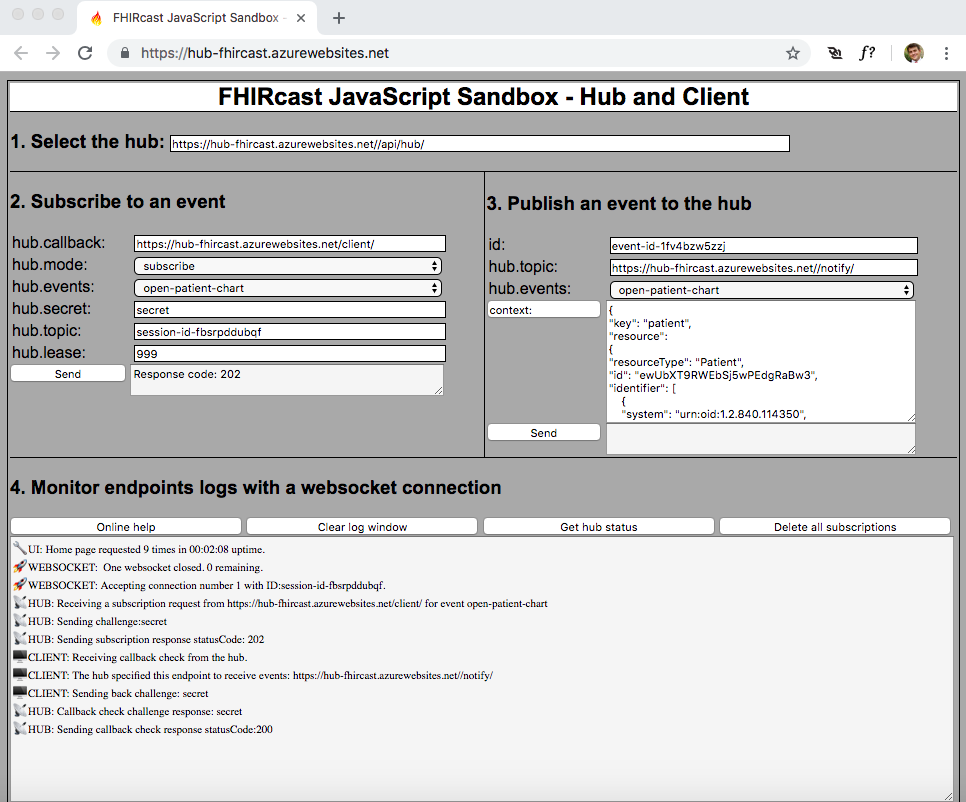
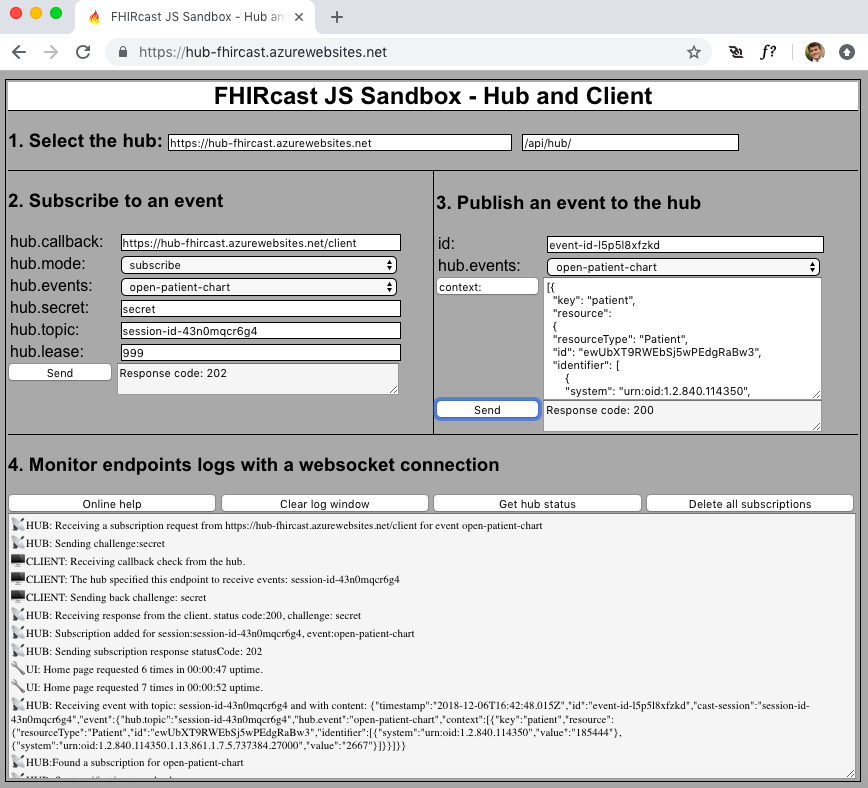
.NETSYNC

Changed region(s): [[0.0, 0.0, 0.9954, 1.0], [0.3422, 0.0, 0.3733, 0.0305]]

diff --git a/sandbox.html b/sandbox.html
@@ -10,6 +10,7 @@
         div.publish {padding: 2px; border-top: 1px solid black;border-left: 1px solid black;margin-left: 50%}
         label,button {padding: 2px; display: inline-block;width: 24.5%}
         input,textarea,select {width: 65%;border:1px solid}
+        input.selectHub {float: left; }
         textarea {vertical-align: top;}
         textarea.textAreaMonitor {width: 99%;font-family: "Segoe UI Emoji";}
         textarea.textAreaMonitor,textarea.subscriptionResponse,textarea.eventResponse {background-color:whitesmoke}
@@ -24,14 +25,13 @@
 
 <div class="selectHub" id="selectHub">
     <h3>1. Select the hub:
-    <input id="hubURL" name="hubURL" value="http://localhost:3000">
+        <input id="hubURL" name="hubURL"  style="width: 40%;" value="http://localhost:3000">&nbsp;
+        <input id="hubEndpoint" name="hubEndpoint"  style="width: 25%;" value="/api/hub/">
     </h3>
-</div>
+ </div>
 
 <div class="subscribe" id="subscribe">
     <h3>2. Subscribe to an event</h3>
-    <label>hub subscription endpoint: </label>
-    <input id="hubSubscribeURI" name="hubSubscribeURI" value="http://localhost:3000/api/hub/">
     <label>hub.callback: </label>
     <input id="clientEndpoint" name="hub.callback"   size="29" value="http://localhost:3000/client"/>    
     <label>hub.mode:</label>
@@ -56,7 +56,7 @@
     <input id="hub.topic" name="hub.topic" type="text" value="FHIRcast testing">
     <label>hub.lease: </label> 
     <input id="hub.lease" name="hub.lease" type="text" value="999">
-    <button onclick="sendSubscription(document.getElementById('hubSubscribeURI').value)">Send</button>
+    <button onclick="sendSubscription(document.getElementById('hubURL').value + document.getElementById('hubEndpoint').value)">Send</button>
     <textarea class="subscriptionResponse" id="subscriptionResponse"></textarea>
 </div>
 
@@ -75,9 +75,9 @@
         <option value="logout-user">logout-user</option>
         <option value="hibernate-user">hibernate-user</option>
     </select>
-    <button onclick="getContext(document.getElementById('hubSubscribeURI').value,document.getElementById('hub.topic').value)" style="text-align:left;" >context:</button>
+    <button onclick="getContext(document.getElementById('hubURL').value + document.getElementById('hubEndpoint').value,document.getElementById('hub.topic').value)" style="text-align:left;" >context:</button>
     <textarea  id="context" rows="9" cols="35">{}</textarea>
-    <button onclick="sendEvent(document.getElementById('context').value,document.getElementById('hubSubscribeURI').value+document.getElementById('hub.topic').value)">Send</button>
+    <button onclick="sendEvent(document.getElementById('context').value,document.getElementById('hubURL').value + document.getElementById('hubEndpoint').value+document.getElementById('hub.topic').value)">Send</button>
     <textarea class="eventResponse" id="eventResponse"></textarea>
 </div>
 
@@ -163,7 +163,8 @@
     
     function deleteSubscriptions(){
         var xhr=new XMLHttpRequest();
-        xhr.open('POST',parser.protocol+'//' + parser.host + '/delete');
+     //   xhr.open('POST',parser.protocol+'//' + parser.host + '/delete');
+     xhr.open('DELETE',parser.protocol+'//' + parser.host + '/');
         xhr.send();
         return;
     }
@@ -185,8 +186,8 @@
         titleSpan.textContent = env.title;
         document.body.style.backgroundColor = env.backgroundColor;
         document.getElementById('hubURL').value = env.hubURL;
+        document.getElementById('hubEndpoint').value = env.hubEndpoint;
         document.getElementById('clientEndpoint').value=env.clientURL;
-        document.getElementById('hubSubscribeURI').value = env.hubURL+env.hubSubscribe;
         document.getElementById('context').value=env.defaultContext; 
         document.getElementById('sendWebMessage').value="Goedemiddag from the " + env.title;
     };

diff --git a/websocket.html b/websocket.html
@@ -22,7 +22,8 @@
 <header><h2>websocket <span id="docTitle"></span></h2></header>
 <div class="selectHub" id="selectHub">
     <h3>1. Select the hub:
-    <input id="hubSubscribeURI" name="hubSubscribeURI" value="http://localhost:3000/api/hub/">
+        <input id="hubURL" name="hubURL"  style="width: 40%;" value="http://localhost:3000">&nbsp;
+        <input id="hubEndpoint" name="hubEndpoint"  style="width: 25%;" value="/api/hub/">
     </h3>
 </div>
 <div class="subscribe" id="subscribe">
@@ -56,7 +57,7 @@
     <label>hub.channel.endpoint: </label> 
     <input id="hub.channel.endpoint" name="hub.channel.endpoint" type="text" value="ec3d063d545447de946614697cd20d62">
     
-    <button onclick="sendSubscription(document.getElementById('hubSubscribeURI').value)">Send</button>
+    <button onclick="sendSubscription(document.getElementById('hubURL').value + document.getElementById('hubEndpoint').value)">Send</button>
     <textarea class="subscriptionResponse" id="subscriptionResponse"></textarea>
 </div>
 
@@ -64,8 +65,6 @@
     <h3>3. Publish an event to the hub</h3> 
     <label>id:</label> 
     <input id="eventId" name="eventId" type="text" value="">
-    <label >hub.topic:</label>
-    <input id="publishURI" name="publishURI" value="http://localhost:3000/notify"/>
     <label>hub.events:</label>
     <select id="publishEvents" name="publishEvents">
         <option value="open-patient-chart" selected >open-patient-chart</option>
@@ -77,9 +76,9 @@
         <option value="logout-user">logout-user</option>
         <option value="hibernate-user">hibernate-user</option>
     </select>
-    <button onclick="getContext(document.getElementById('publishURI').value,document.getElementById('hub.topic').value)" style="text-align:left;" >context:</button>
+    <button onclick="getContext(document.getElementById('hubURL').value + document.getElementById('hubEndpoint').value,document.getElementById('hub.topic').value)" style="text-align:left;" >context:</button>
     <textarea  id="context" rows="9" cols="35">{}</textarea>
-    <button onclick="publishEvent(document.getElementById('context').value,document.getElementById('publishURI').value)">Send</button>
+    <button onclick="publishEvent(document.getElementById('context').value,document.getElementById('hubURL').value + document.getElementById('hubEndpoint').value+document.getElementById('hub.topic').value)">Send</button>
     <textarea class="eventResponse" id="eventResponse"></textarea>
 </div>
 
@@ -142,7 +141,7 @@
 
     function publishEvent(contextData,url){
         var eventData={};
-        eventData['hub.topic']=document.getElementById('publishURI').value;
+        eventData['hub.topic']=document.getElementById('hub.topic').value;
         eventData['hub.event']=document.getElementById('publishEvents').value;
         eventData.context=JSON.parse(contextData);
         var timestamp= new Date();
@@ -176,7 +175,7 @@
     
     function deleteSubscriptions(){
         var xhr=new XMLHttpRequest();
-        xhr.open('POST',parser.protocol+'//' + parser.host + '/delete');
+        xhr.open('DELETE',parser.protocol+'//' + parser.host + '/');
         xhr.send();
         return;
     }
@@ -197,9 +196,9 @@
         var titleSpan = document.getElementById("docTitle");
         titleSpan.textContent = env.title;
         document.body.style.backgroundColor = env.backgroundColor;
+        document.getElementById('hubURL').value = env.hubURL;
+        document.getElementById('hubEndpoint').value = env.hubEndpoint;
         document.getElementById('clientEndpoint').value=env.clientURL;
-        document.getElementById('hubSubscribeURI').value = env.hubURL+env.hubSubscribe;
-        document.getElementById('publishURI').value=env.hubURL+env.hubPublish; 
         document.getElementById('context').value=env.defaultContext; 
         
     };

diff --git a/sandbox.js b/sandbox.js
@@ -26,7 +26,7 @@ var pageLoads=0;
 var env ={};
 env.port= process.env.PORT || 3000;  
 env.hubURL= process.env.HUB_URL || 'http://localhost:'+env.port;
-env.hubSubscribe = process.env.HUB_SUBSCRIBE || '/api/hub/';
+env.hubEndpoint = process.env.HUB_ENDPOINT || '/api/hub/';
 env.clientURL = process.env.CLIENT_URL || 'http://localhost:'+env.port+'/client';
 env.title = process.env.TITLE ||'FHIRcast JS Sandbox - Hub and Client';
 env.backgroundColor = process.env.BACKGROUND_COLOR ||'darkgray' ;
@@ -53,7 +53,7 @@ env.defaultContext= process.env.DEFAULT_CONTEXT || `[{
 if (env.mode!='client') {
 
   // HUB:  Receive and check subscription requests from clients
-  app.post(env.hubSubscribe, async function(req,res){  
+  app.post(env.hubEndpoint, async function(req,res){  
     var subscriptionRequest=req.body;
     console_log('📡HUB: Receiving a subscription request from '+subscriptionRequest['hub.callback'] + ' for event '+subscriptionRequest['hub.events']);
     // Check if it's a websub or websocket channel
@@ -115,7 +115,7 @@ if (env.mode!='client') {
   }
 
   // HUB: Receive events from clients with application/json payload  
-  app.post(env.hubSubscribe+':topic',function(reqNotify,resNotify){
+  app.post(env.hubEndpoint+':topic',function(reqNotify,resNotify){
     resNotify.send(200);
     console_log('📡HUB: Receiving event with topic: '+ reqNotify.params.topic +' and with content: '+ JSON.stringify(reqNotify.body));
     //  Broadcast the event to all clients
@@ -123,7 +123,7 @@ if (env.mode!='client') {
   });
   
   // HUB: Receive context request from clients with with session id in the query string  
-  app.get(env.hubSubscribe+':topic',function(req,res){
+  app.get(env.hubEndpoint+':topic',function(req,res){
     console_log('📡HUB: Receiving context request for session id: '+req.params.topic);
     res.send(200,lastContext);
   });
@@ -303,7 +303,7 @@ function console_log(msg){
  }
 
 // UI: Clear all subscriptions
-app.post('/delete',function(req,res){
+app.delete('/',function(req,res){
   subscriptions=[];
   console_log('🔧UI: All subscriptions cleared.');
   res.send(200);

diff --git a/README.md b/README.md
@@ -36,7 +36,7 @@
 # Introduction
 FHIRcast® is an HL7 specification designed to provide a lightweight, inexpensive and http-based application context synchronization standard. Find out more at [fhircast.org](http://fhircast.org).
 
-FHIRcast sandboxes provide tools to simulate the workflow of the FHIRcast standard.  They also prototype proposals from the Imaging Integration WorkGruop to provide early feedback on implementability.
+FHIRcast sandboxes provide tools to simulate the workflow of the FHIRcast standard.  They also prototype proposals from the Imaging Integration Workgroup (WG20) to provide early feedback on implementability.
 
 This sandbox (sandbox.js) partially implements the standard using JavaScript and Node.js. If you are a C#/.net developer, you might prefer to use the other [FHIRcast sandbox](https://github.com/fhircast/sandbox).
 
@@ -77,7 +77,7 @@ To retrieve context after start-up, perform a GET request on the hub's notificat
 Notice that there is only context information in the response and no event name.
 
 ## Test the websocket channel proposed addition
-The [FHIR® subscription resource](https://www.hl7.org/fhir/subscription.html) specifies a number of communication channels and there is interest in following that model in FHIRcast starting with a websocket channel.  With this channel, the end clients communicate directly with the hub and the applications servers are not involved.
+The [FHIR® subscription resource](https://www.hl7.org/fhir/subscription.html) specifies a number of communication channels and there is interest in following that model in FHIRcast starting with the addition of a websocket channel.  With this channel, the end clients communicate directly with the hub and the applications servers are not involved.
 ![websocket](/images/websocket.png)
 A possible implementation would be to add 'hub.channel.type' and 'hub.channel.endpoint' to the current subscription request and to provide a wss://fhircast-hub/bind/:[endpoint] service on the hub that binds the websocket created by the client to the subscription.
 
@@ -110,7 +110,11 @@ Alternatively, test the SMART launch by navigating to the SMART launch sandbox: 
 
 ###  HTML5 Web Messaging 
 [SMART Web Messaging](https://github.com/smart-on-fhir/smart-on-fhir.github.io/wiki/SMART-Web-Messaging) proposes HTML5 Web Messaging for communication between the EMR and Clinical Decision Support (CDS) applications. This [webmsg endpoint](https://hub-fhircast.azurewebsites.net/webmsg) explores how Web Messaging could work in other scenarios without yet implementing the SMART authorization. 
-![webmessage](/images/webmessage.png)
+
+<img src="/images/webmessage.png" alt="" width="200"/>
+
+
+
 
 
 Click the 'Send' buttons to see 'postMessage()' actions across iframes.  The 'Launch AI in another window' button may produce a 'pop-up' warning in your browser.
@@ -132,6 +136,52 @@ Finally, open two reporting client browser sessions.  Subscribe to an event from
 * **Response error 404-Not found:** The configured hub url node may be set to run as a client-only and therefore the hub endpoints are not available.
 * **The log emojis are black and white:**  Color emojis require Office 2016 on Windows 7.
 
+# Testing the .Net Core and JS sandboxes together
+This section provides guidance on testing the two sandboxes against each other. The procedure assumes that both sandboxes are running on the same machine; one on port 3000 and the other on port 5000/5001.
+
+## JS as the client and .Net as the hub
+1. Start the .Net hub with the following command (lastest .Net Core SDK installed)
+```
+$ dotnet run --project Hub
+```
+2. Start the JS sandbox in client mode
+```
+MODE=client node sandbox.js
+```
+3. Submit a subscription
+
+Navigate the browser to http://localhost:3000 and change the hub URL port from 3000 to 5000 in section 1.
+
+
+Click the send button in section 2.  The console window where the hub is tunning will show the subscription being accepted.
+
+
+4. Send an event
+
+Click the send button in section 3.  The message should be seen in the console window and the browser should show a event being received.
+
+## .Net as the client and JS as the hub
+
+1. Start the JS sandbox
+```
+node sandbox.js
+```
+2. Start the .Net WebSub client  with the following command
+```
+$ dotnet run --project Hub
+```
+
+3. Submit a subscription
+
+
+Navigate the browser to http://localhost:5001/client.
+![dotnetClient](/images/dotnetClient.png)
+Fill in the entries as shown in the picture above and click the subscribe button.
+
+4. Send an event
+
+Click the update button.
+
 
 # Installation
 Installing your own sandbox allows you to learn, fix bugs, propose new features or simply provide a private test environment for your project or institution.
@@ -143,6 +193,7 @@ Environment variables can be used to control the mode of operation, default endp
 + **MODE**: Specifies if the instance is a 'hub' with a client (subscriber/publisher) or only a 'client'. Default is 'hub'.
 + **PORT**: Specifies the listening port. Default is 3000. 
 + **HUB_URL**: Specifies the address where the subscriber and publisher will connect to.  Default is http://localhost:3000.
++ **HUB_ENDPOINT**: Specifies the endpoint where the subscriber and publisher will connect to.  Default is /api/hub/.
 + **CLIENT_URL**: Specifies the address where the client node will receive published events.  Default is http://localhost:3000/client.
 + **TITLE**: Sets the title. Default is 'FHIRcast JavaScript Sandbox - Hub and Client'.
 + **BACKGROUND_COLOR**: Sets the background color. Default is 'darkgray'.
@@ -285,9 +336,9 @@ There are two files:  sandbox.js and sandbox.html.
 These two endpoints are not active when the MODE environment variable is set to 'emr','pacs','reporting' or 'ai'.
 * "/api/hub": POST with form query string to receive subscription requests from the clients.
  
-* "/notify": POST with JSON payload to receive events from the clients. 
+* "/api/hub/:topic": POST with JSON payload to receive events from the clients. 
 
-* "/notify": GET with query string to provide context in JSON. 
+* "/api/hub/:topic": GET with query string to provide context in JSON. 
   
 ### Client endpoints
 * "/client": POST with JSON payload to receive events and subscribtion cancelations from the hub.
@@ -303,7 +354,7 @@ The following two endpoints are not active when the MODE environment variable is
 
 * "/status":  POST without content will trigger a hub status message to be broadcasted to the connected websockets.
 
-* "/delete":  POST without content will delete all subscriptions.
+* "/":  DELETE without content will delete all subscriptions.
 
 ### SMART handling
 The authorization sequence is described [here](http://docs.smarthealthit.org/tutorials/authorization/).
